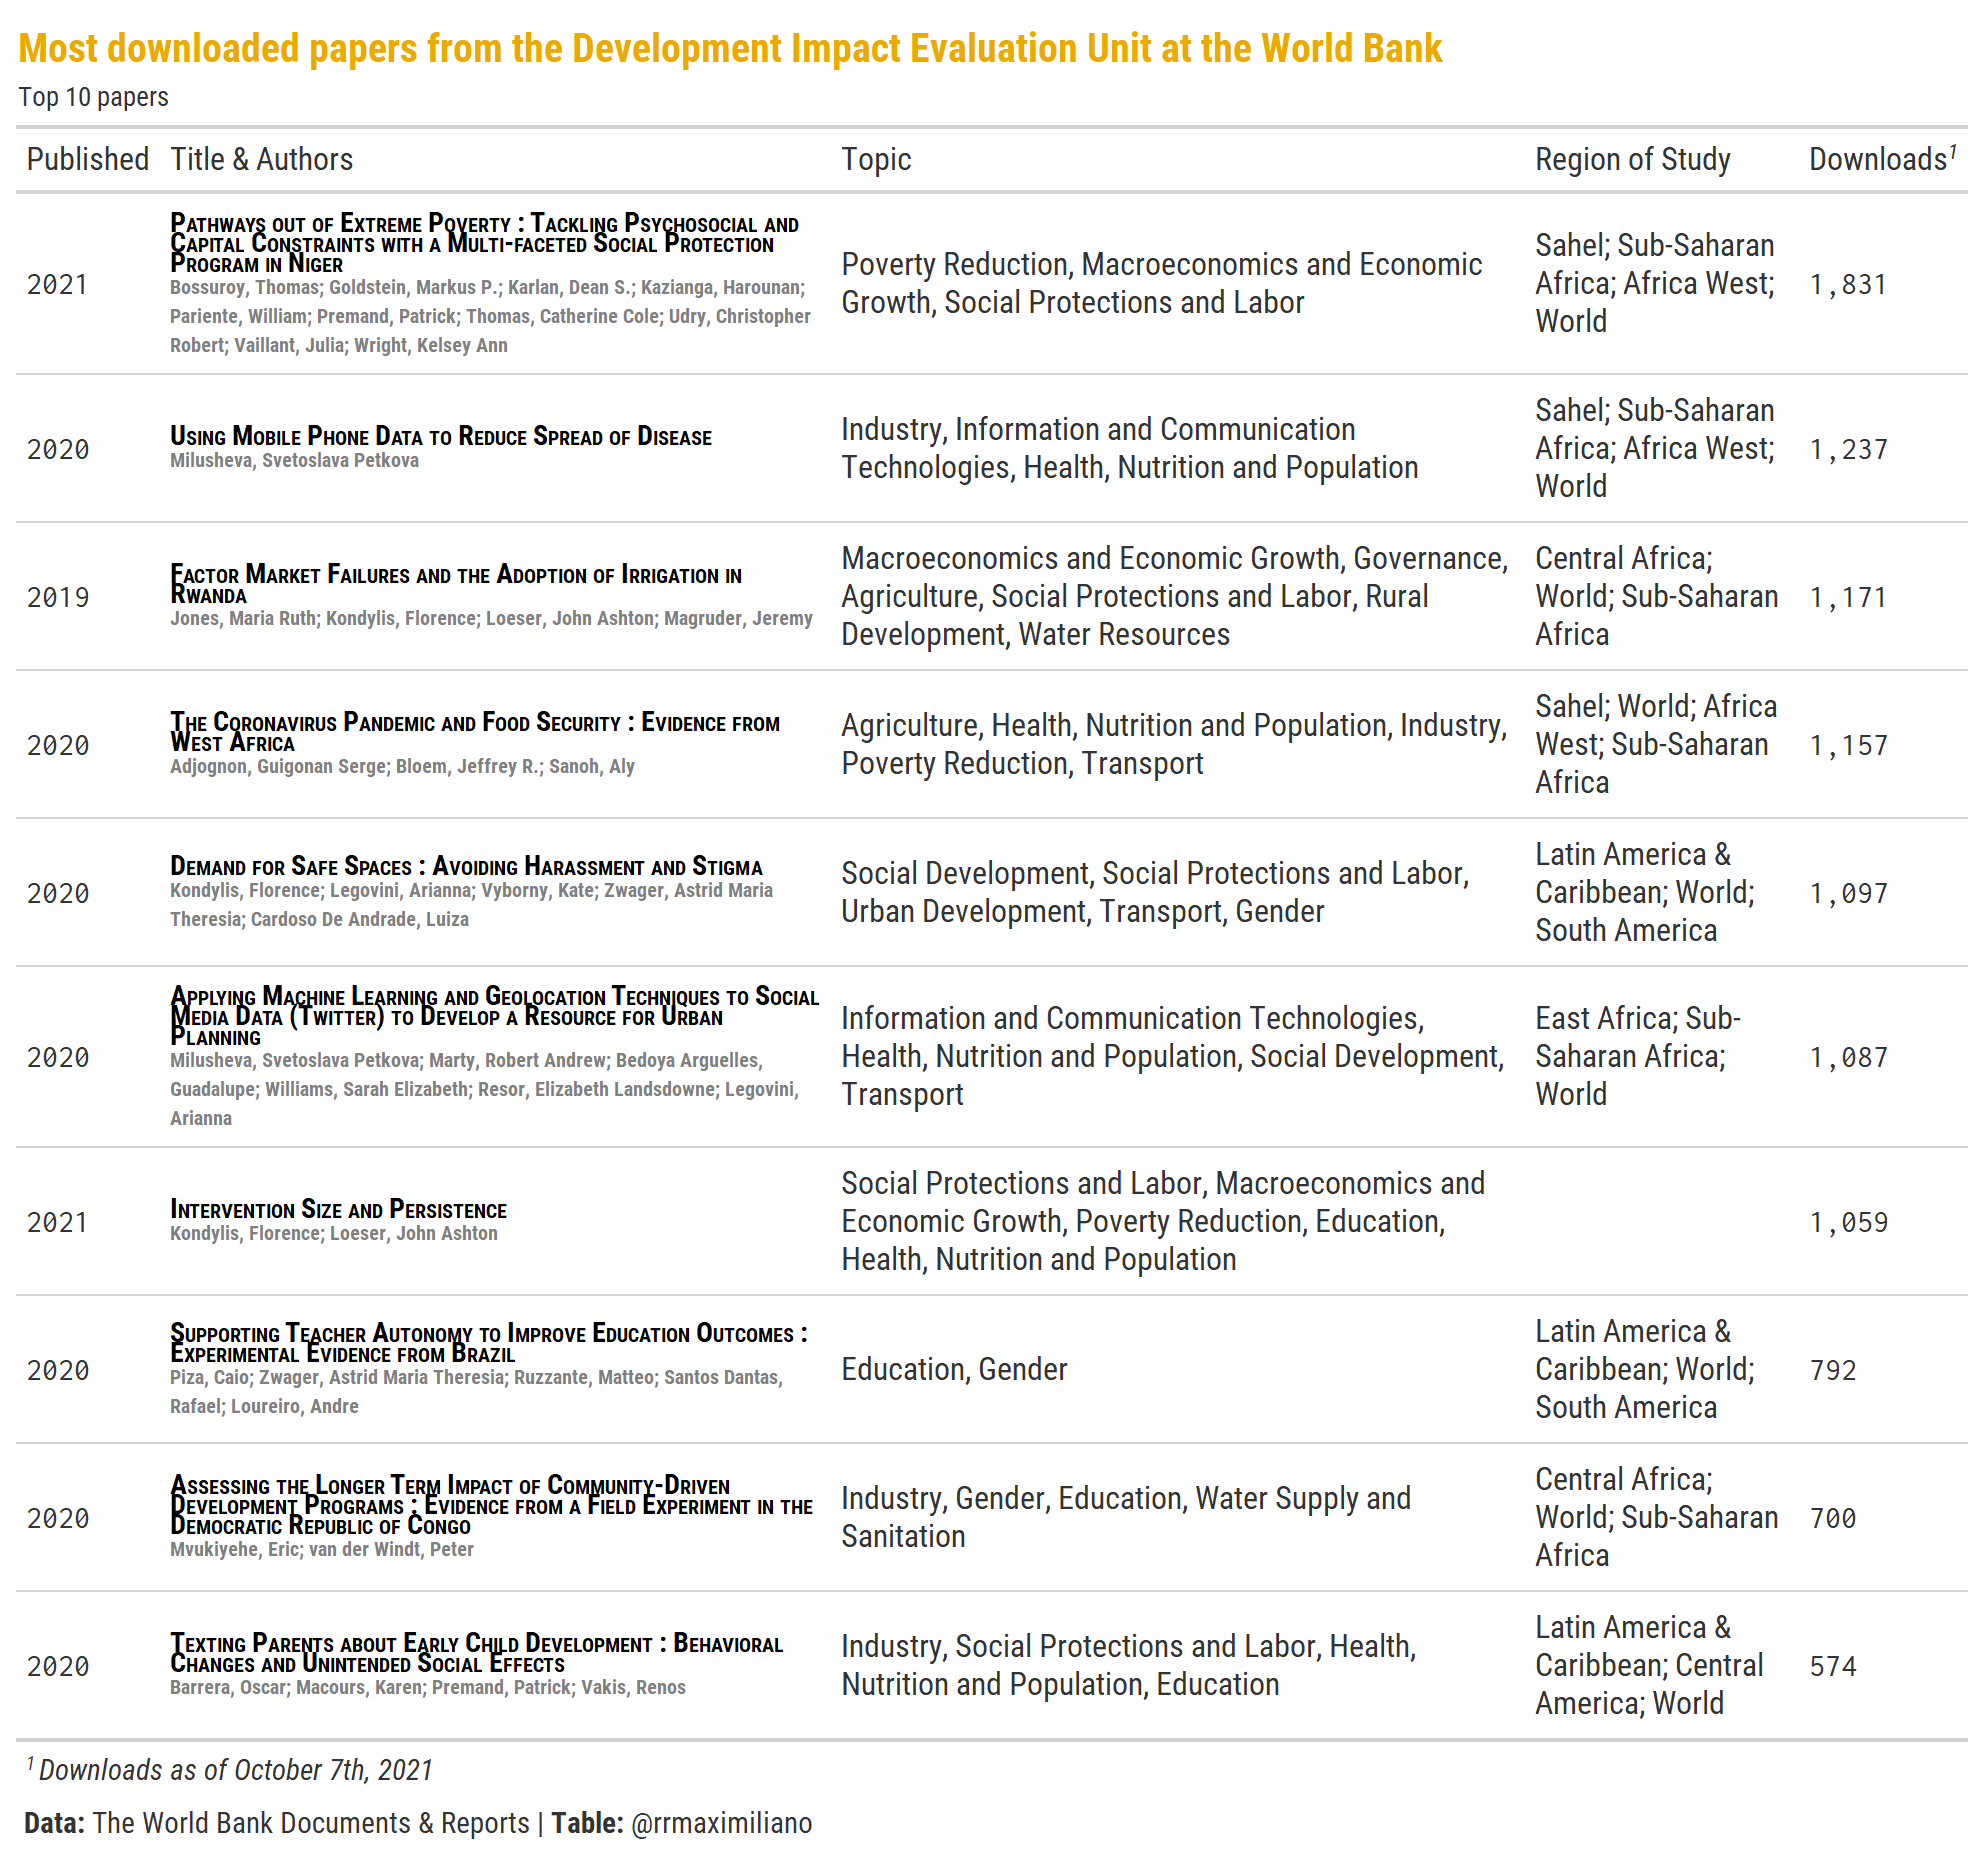
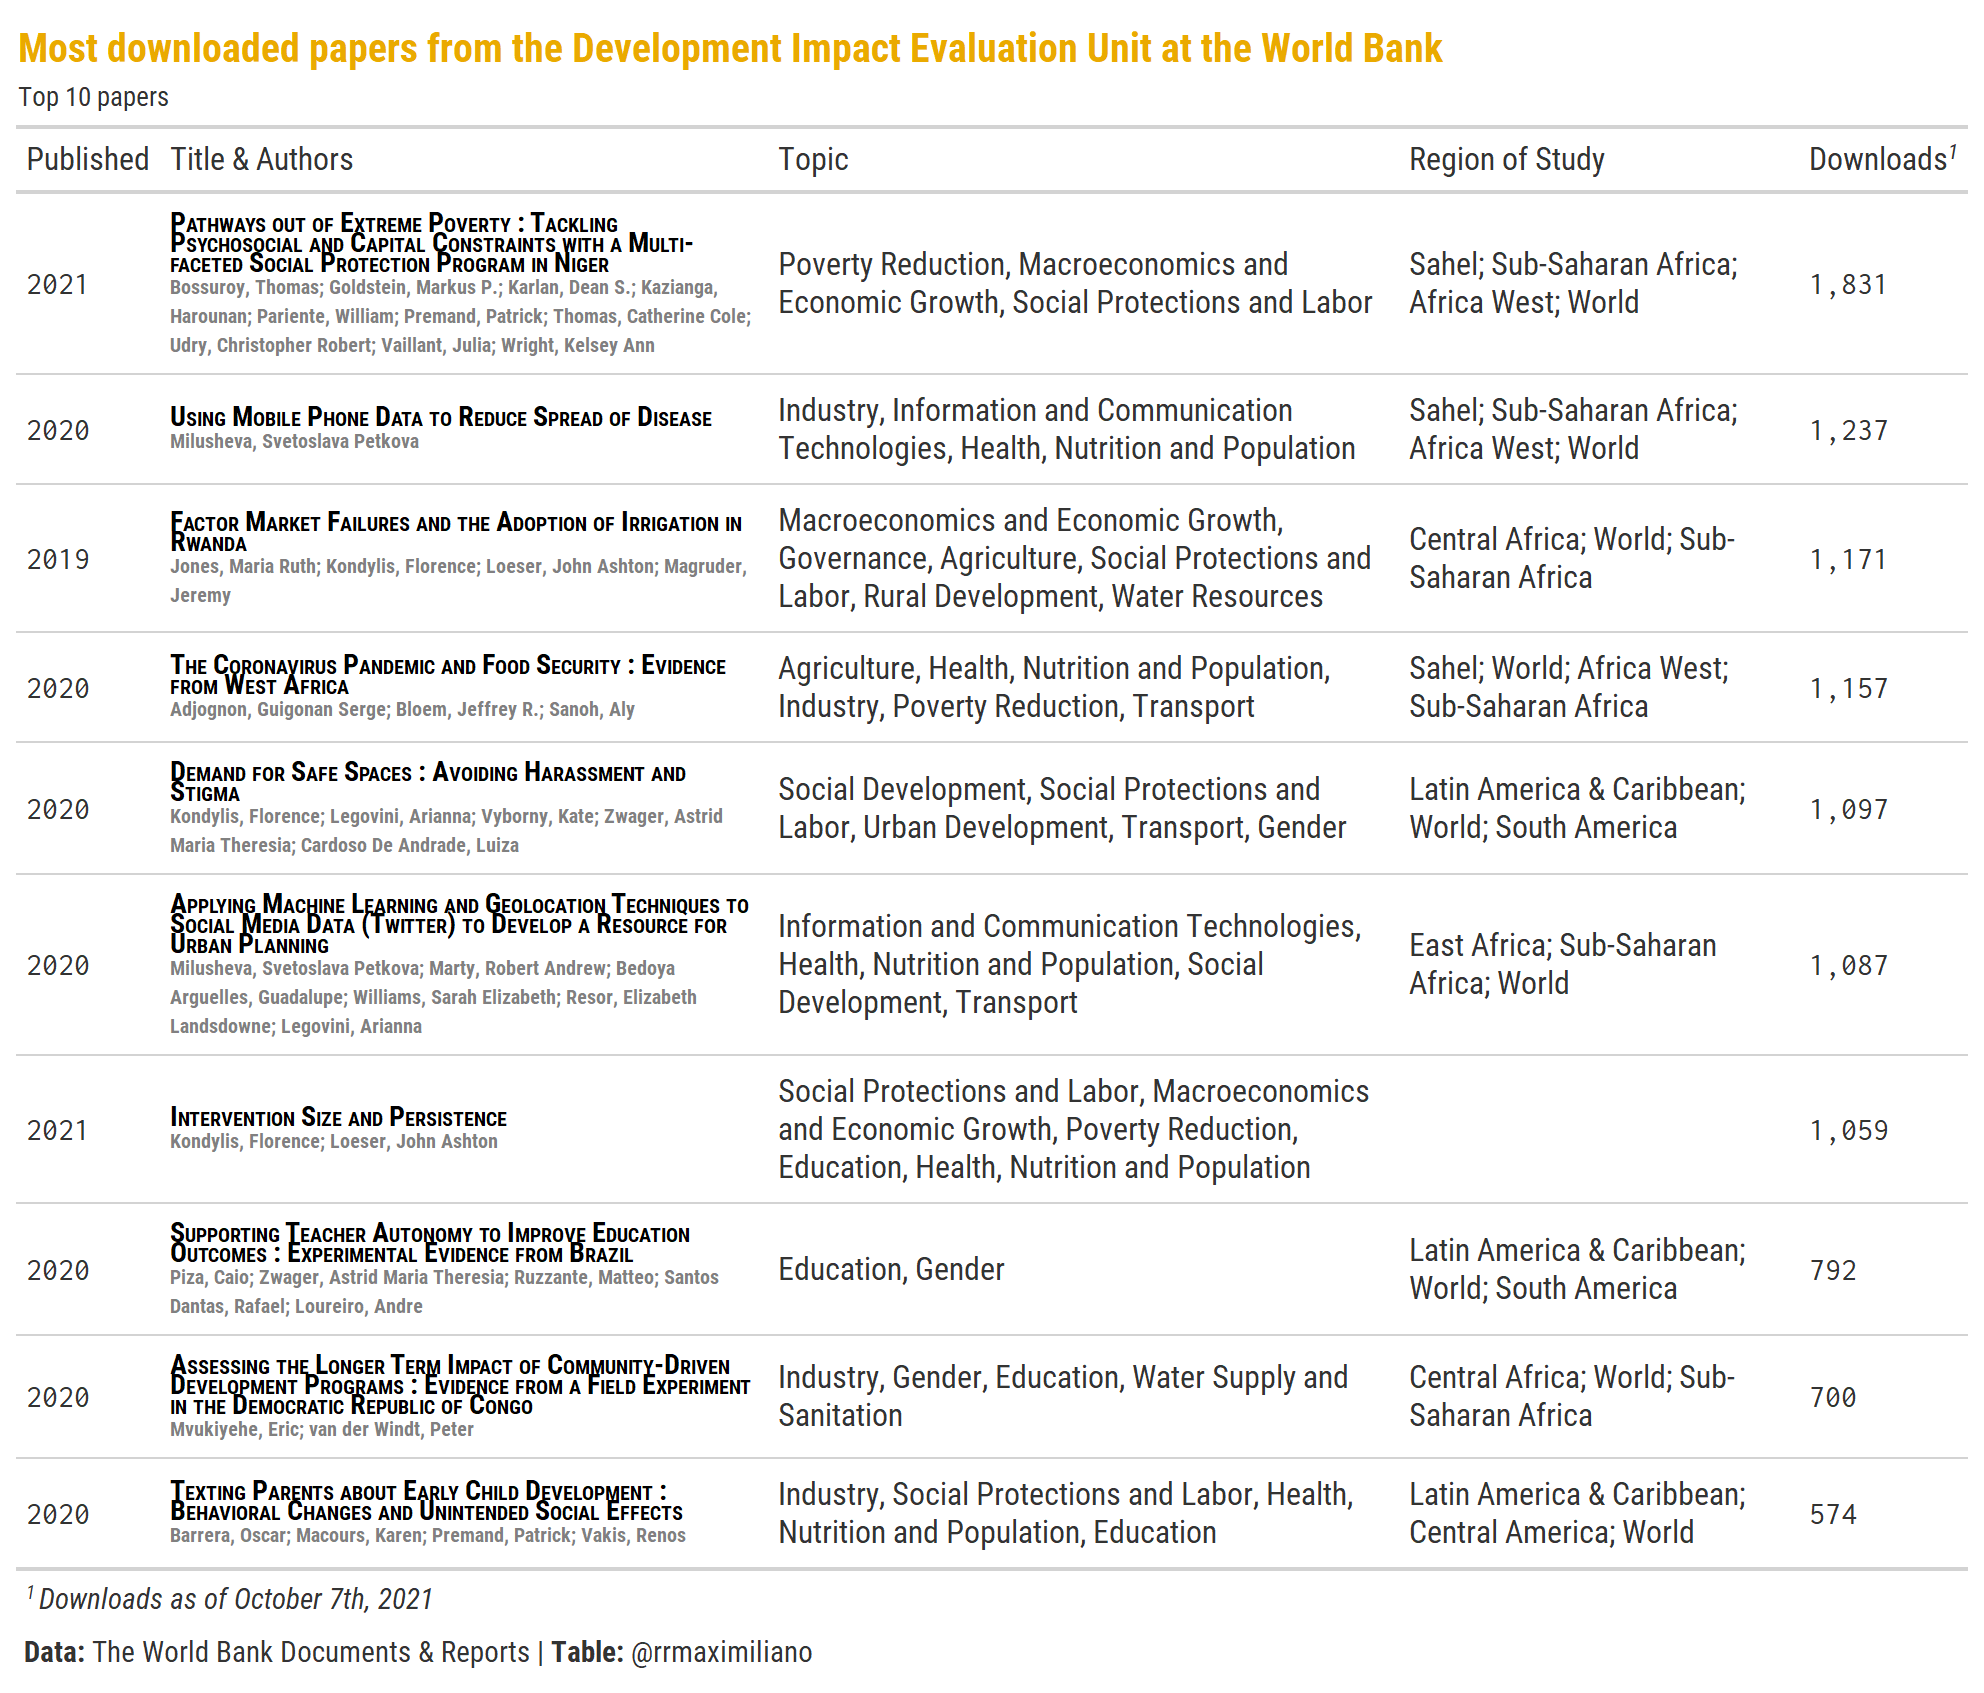
:pencil: added dec table

diff --git a/README.md b/README.md
@@ -154,4 +154,4 @@ wb_downloads
 
 ## Figures
 
-![](figs/downloads_year.png)<!-- -->![](figs/downloads_counts.png)<!-- -->![](figs/table_downloads.png)<!-- -->
+![](figs/downloads_year.png)<!-- -->![](figs/downloads_counts.png)<!-- -->![](figs/table_dec_downloads.png)<!-- -->![](figs/table_downloads.png)<!-- -->
